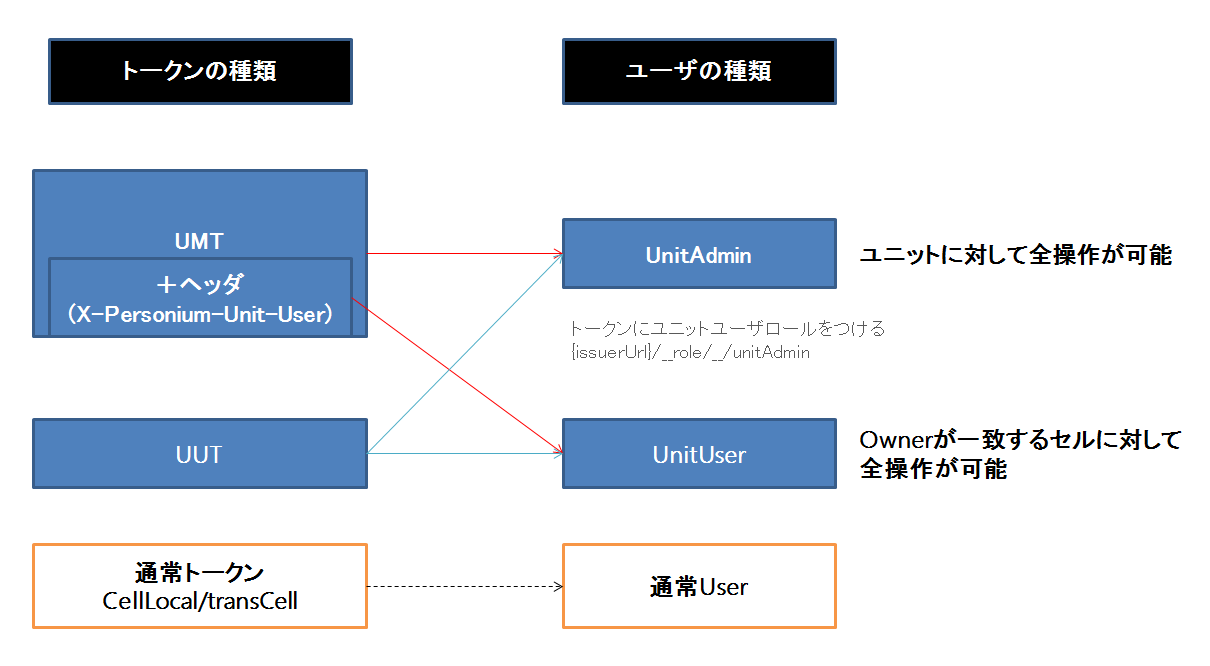
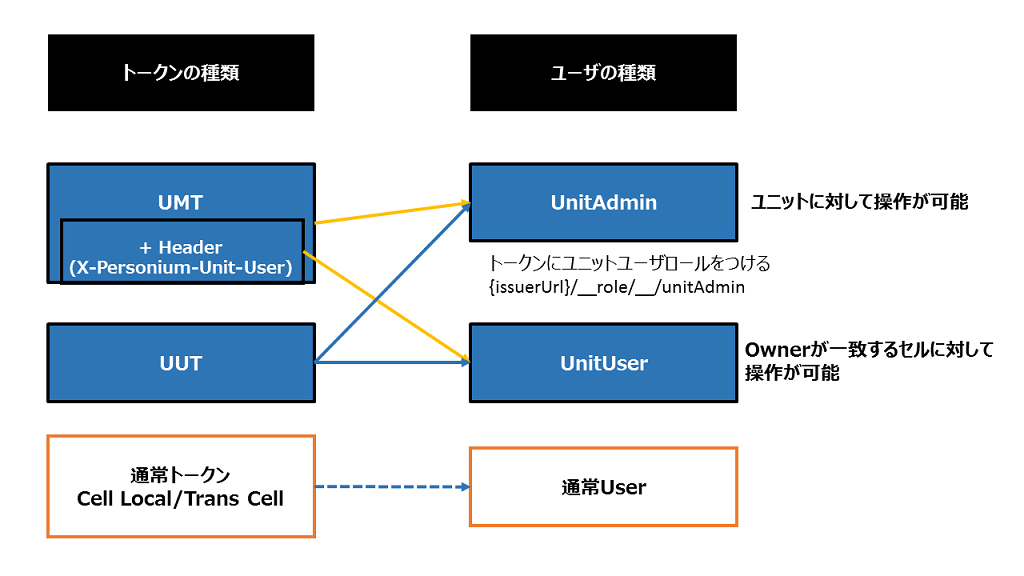
#123 Fix for core-1.6.4 release.

diff --git a/ja/unit-administrator/Unit-User.md b/ja/unit-administrator/Unit-User.md
@@ -1,30 +1,30 @@
 # ユニットユーザ
 ## ユニットユーザとは
-ユニットユーザとはセルのCRUD等ユニットレベルのAPIを操作する主体のこと。<br>
+ユニットユーザとはセルのCRUD等ユニットレベルのAPIを操作する主体のこと。  
 ユニットユーザは、ユニットユーザトークン（Unit User Token (UUT)）またはユニットマスタートークン（Unit Master Token (UMT)）を用いてAPIアクセスを行う。
 
 ### ユニットユーザトークン（Unit User Token (UUT)）
-UUTはPersoniumをサービスとして提供するときに大きな役割を担うが、PersoniumはUUTを使わずUMTのみを使って運用することもできる。<br>
-サービス・プロバイダがUUTを使う最大の動機は、セルの課金先をまとめて管理することである。<br>
+UUTはPersoniumをサービスとして提供するときに大きな役割を担うが、PersoniumはUUTを使わずUMTのみを使って運用することもできる。  
+サービス・プロバイダがUUTを使う最大の動機は、セルの課金先をまとめて管理することである。  
 すなわち、サービス・プロバイダが自身の顧客それぞれに異なるUUTを発行し、これを使ってセル CRUD APIアクセスをしてもらうことで以下が実現する。
 
 	・セル作成時、自身が持ち主であるという情報とともにセルが作成される。
 	・セル検索時、自身が作成したセル以外は検索されない。
 	・セル削除時、自身が作成したセル以外の削除は失敗する。
 
-一方で、一つの個人・組織が自身専用ユニットを持っている場合は、そのユニットに作られるセルはすべて自身の管理となるため、上記のような機能は不要である。<br>
+一方で、一つの個人・組織が自身専用ユニットを持っている場合は、そのユニットに作られるセルはすべて自身の管理となるため、上記のような機能は不要である。  
 その場合はUUTのかわりにUMTを用いて運用を行っても問題はない。
 
-ユニットユーザは識別子を持ち、それをユニットユーザ名と呼ぶ。<br>
+ユニットユーザは識別子を持ち、それをユニットユーザ名と呼ぶ。  
 ユニットはユニットユーザ名の管理機構を持たず、外部の管理機構の存在を前提とする。
 
 ![unituser](./images/unituser.png)
 
 ## ユニットレベル制御エンティティ（セル）のオーナー属性
 
-セルにはオーナー（owner）という隠し属性が存在する。<br>
-隠し属性というのはOData形式のAPIから内容を確認することはできないが、すべてのセルに一つ存在する属性である。<br>
-隠し属性の他の例としてはセル制御エンティティのaccountが挙げられる。<br>
+セルにはオーナー（owner）という隠し属性が存在する。  
+隠し属性というのはOData形式のAPIから内容を確認することはできないが、すべてのセルに一つ存在する属性である。  
+隠し属性の他の例としてはセル制御エンティティのaccountが挙げられる。  
 accountはhashedCredentialという名前のパスワードハッシュを格納する属性が定義されている。
 
 オーナーはセル作成時に設定したら変更は行えない。
@@ -33,19 +33,19 @@ accountはhashedCredentialという名前のパスワードハッシュを格納
 
 ### ユニットアドミン（Unit Admin）
 
-ユニットに対して全操作が可能なユーザ
+ユニットに対して操作が可能なユーザ。
 
 ### ユニットユーザ（Unit User）
 
-オーナーが一致するセルに対して全操作が可能なユーザ。<br>
-セルの検索を実施するとオーナーが一致するセルのみ検索可能
+オーナーが一致するセルに対して操作が可能なユーザ。  
+セルの検索を実施するとオーナーが一致するセルのみ検索可能。
 
 ## ユニットトークンの種類
 
 ### ユニットマスタートークン（Unit Master Token (UMT)）
 
-ユニット内で一意のトークンで、このトークンでアクセスするとUnit Adminとして扱われる。<br>
-personium-unit-config.propertiesの「io.personium.core.masterToken=」に任意の文字列を設定する。<br>
+ユニット内で一意のトークンで、このトークンでアクセスするとUnit Adminとして扱われる。  
+personium-unit-config.propertiesの「io.personium.core.masterToken=」に任意の文字列を設定する。  
 X-Personium-Unit-Userヘッダに任意の文字列を指定することで、その文字列をユニットユーザ名とするユニットユーザとして動くことも可能。
 
 例
@@ -87,8 +87,8 @@ UUTは以下の情報をつめたSAML Assertionに基づくOAuth2のBearerトー
 また、セルでのAccount認証でp_targetにユニットのルートURLを与えることで発行されるトランスセルトークンは、UUTの要件を満たしており、
 ユニットの設定に特定のセルのURLを含めることでそのセルはUUT発行者となりうる。
 
-例
-セルでUUTを発行する場合
+例  
+セルでUUTを発行する場合  
 personium-unit-config.propertiesの`io.personium.core.unitUser.issuers={UnitURL}/{Cell}/`を設定
 
 
@@ -99,13 +99,31 @@ curl "{UnitURL}/{Cell}/__token" -X POST \
 
 io.personium.core.unitUser.issuers は複数URL設定可能
 
+UUTは通常、CellのCRUD以外のアクセス権限を持っていない。  
+Cellの内容を操作したい場合、後述のユニットユーザロール(CellContentsReader, CellContentsAdmin)を付与する必要がある。
+
 ### ユニットユーザロール（Unit User Role）
 
-personium-coreはユニットユーザのロールとして以下を認識する。<br>
-Token内でその他のロールが付与されていたとしてもこれを認識はしない。（無視する）
+personium-coreはユニットユーザのロールとして以下を認識する。  
+トークン内でその他のロールが付与されていたとしてもこれを認識はしない。（無視する）
 
-{UnitURL}/{Cell}/\_\_role/\_\_/unitAdmin ： ユニット管理者
+#### UnitAdminロール
 
-このロールが付与されている場合、マスタートークン同様にそのユニットに対するあらゆる処理が許可されるのがユニット管理者ロールである。<br>
+{UnitURL}/{Cell}/\_\_role/\_\_/UnitAdmin
+
+UnitAdminロールが付与されている場合、そのユーザはユニットアドミンとなる。  
 V0では各種ユニット管理業務にマスタートークンが乱用されたが、このような運用はセキュリティ上望ましくない。<br>
 各種ユニット管理業務は、このロールのトークンを用いてAPI呼び出しを行うべきである。
+
+#### CellContentsReaderロール
+
+{UnitURL}/{Cell}/\_\_role/\_\_/CellContentsReader
+
+CellContentsReaderロールが付与されている場合、そのユーザのユニットユーザトークンはCellの内容のRead権限を持つ。  
+
+#### CellContentsAdminロール
+
+{UnitURL}/{Cell}/\_\_role/\_\_/CellContentsAdmin
+
+CellContentsAdminロールが付与されている場合、そのユーザのユニットユーザトークンはCellの内容のRead権限、及びWrite権限を持つ。  
+ユニットユーザに"UnitAdminロール"、及び"CellContentsAdminロール"を付与することで、そのユーザのユニットユーザトークンはユニットマスタートークンと同等になる。

diff --git a/en/unit-administrator/Unit-User.md b/en/unit-administrator/Unit-User.md
@@ -1,30 +1,30 @@
 # Unit user
 ## What is a unit user?
-A unit user is an entity that operates a unit level API such as CRUD of a cell. <br>
+A unit user is an entity that operates a unit level API such as CRUD of a cell.  
 The unit user performs API access using a unit user token (Unit User Token (UUT)) or a unit master token (Unit Master Token (UMT))
 
 ### Unit User Token (Unit User Token (UUT))
-UUT plays a big role when providing Personium as a service, but Personium can operate with only UMT without using UUT. <br>
-The biggest motivation for service providers to use UUT is to manage billing destinations of cells at once. <br>
+UUT plays a big role when providing Personium as a service, but Personium can operate with only UMT without using UUT.  
+The biggest motivation for service providers to use UUT is to manage billing destinations of cells at once.  
 That is, by having the service provider issue a different UUT to each customer himself and using this to access the cell CRUD API, the following is realized.
 
      When creating a cell, a cell is created with information that it is owned.
      When searching for a cell, it is not searched except for the cell it created.
      When deleting a cell, deletion other than the cell created by itself fails.
 
-On the other hand, if an individual or organization has its own dedicated unit, all the cells created in that unit will be managed by himself, so the above function is unnecessary. <br>
+On the other hand, if an individual or organization has its own dedicated unit, all the cells created in that unit will be managed by himself, so the above function is unnecessary.  
 In that case, you can use UMT instead of UUT for operation.
 
-Unit users have identifiers, which are called unit user names. <br>
+Unit users have identifiers, which are called unit user names.  
 The unit does not have a unit user name management mechanism, and it assumes the existence of an external management mechanism.
 
 ![unituser](./images/unituser.png)
 
 ## Owner attribute of unit level control entity (cell)
 
-A cell has a hidden attribute called an owner. <br>
-The hidden attribute can not confirm the content from the OData format API, but it is an attribute that exists in all cells. <br>
-Another example of the hidden attribute is the account of the cell control entity. <br>
+A cell has a hidden attribute called an owner.  
+The hidden attribute can not confirm the content from the OData format API, but it is an attribute that exists in all cells.  
+Another example of the hidden attribute is the account of the cell control entity.  
 For account, an attribute that stores a password hash named hashedCredential is defined.
 
 The owner can not change when setting it at cell creation.
@@ -33,19 +33,19 @@ The owner can not change when setting it at cell creation.
 
 ### Unit Admin (Unit Admin)
 
-Users who can operate all units
+Users who can operate units
 
 ### Unit User (Unit User)
 
-A user who can perform all operations on the cell whose owner matches. <br>
+A user who can perform operations on the cell whose owner matches.  
 When searching the cell, only the cell whose owner matches can be searched
 
 ## Type of Unit Token
 
 ### Unit Master Token (Unit Master Token (UMT))
 
-Unique token in the unit, accessing with this token will be treated as Unit Admin. <br>
-Set arbitrary character string to "io.personium.core.masterToken =" in personium-unit-config.properties. <br>
+Unique token in the unit, accessing with this token will be treated as Unit Admin.  
+Set arbitrary character string to "io.personium.core.masterToken =" in personium-unit-config.properties.  
 By specifying an arbitrary character string in the X-Personium-Unit-User header, it is also possible to move as a unit user whose unit user name is the character string.
 
 An example
@@ -85,8 +85,8 @@ The access agent issuing this token is called a unit user, and the authenticatio
 Also, the transcell token issued by giving the root URL of the unit to p_target in the Account authentication in the cell satisfies the requirements of the UUT,
 By including the URL of a specific cell in the setting of the unit, the cell can be a UUT issuer.
 
-An example
-When issuing a UUT in a cell
+An example  
+When issuing a UUT in a cell  
 Set `io.personium.core.unitUser.issuers={UnitURL}/{Cell}/` in personium-unit-config.properties
 
 ```sh
@@ -94,15 +94,33 @@ curl "{UnitURL}/{Cell}/__ token" -X POST \
 -d 'grant_type = password & username = user & password = pass & p_target = {UnitURL} /'
 ```
 
-io.personium.core.unitUser.issuers can set multiple URLs
+io.personium.core.unitUser.issuers can set multiple URLs.
+
+UUT usually does not have access authority other than CRUD of Cell.
+When you want to manipulate the contents of Cell, it is necessary to give unit user role (CellContentsReader, CellContentsAdmin) to be described later.
 
 ### Unit User Role
 
-personium - core recognizes the following as the role of the unit user. <br>
+personium - core recognizes the following as the role of the unit user.  
 Even if other roles are granted within Token, it is not recognized. (ignore)
 
-{UnitURL}/{Cell}/\ _ \ _ role/\ _ \ _/unitAdmin: unit manager
+#### UnitAdmin Role
 
-When this role is granted, it is the unit administrator role that all processing on that unit is permitted as well as the master token. <br>
+{UnitURL}/{Cell}/\_\_role/\_\_/UnitAdmin
+
+If the UnitAdmin role is granted, that user becomes Unit Admin.  
 In V 0, the master token was abused for various unit management tasks, but such operation is undesirable from the viewpoint of security. <br>
 For various unit management tasks, API calls should be made using the token of this role.
+
+#### CellContentsReader Role
+
+{UnitURL}/{Cell}/\_\_role/\_\_/CellContentsReader
+
+If the CellContentsReader role has been granted, the Unit User Token for that user has read permission on the contents of Cell.  
+
+#### CellContentsAdmin Role
+
+{UnitURL}/{Cell}/\_\_role/\_\_/CellContentsAdmin
+
+If the CellContentsAdmin role has been granted, the Unit User Token for that user has read and write permissions on the contents of Cell.  
+By assigning "UnitAdmin role" and "CellContentsAdmin role" to the unit user, the Unit User Token of that user becomes equivalent to the Unit Master Token.
